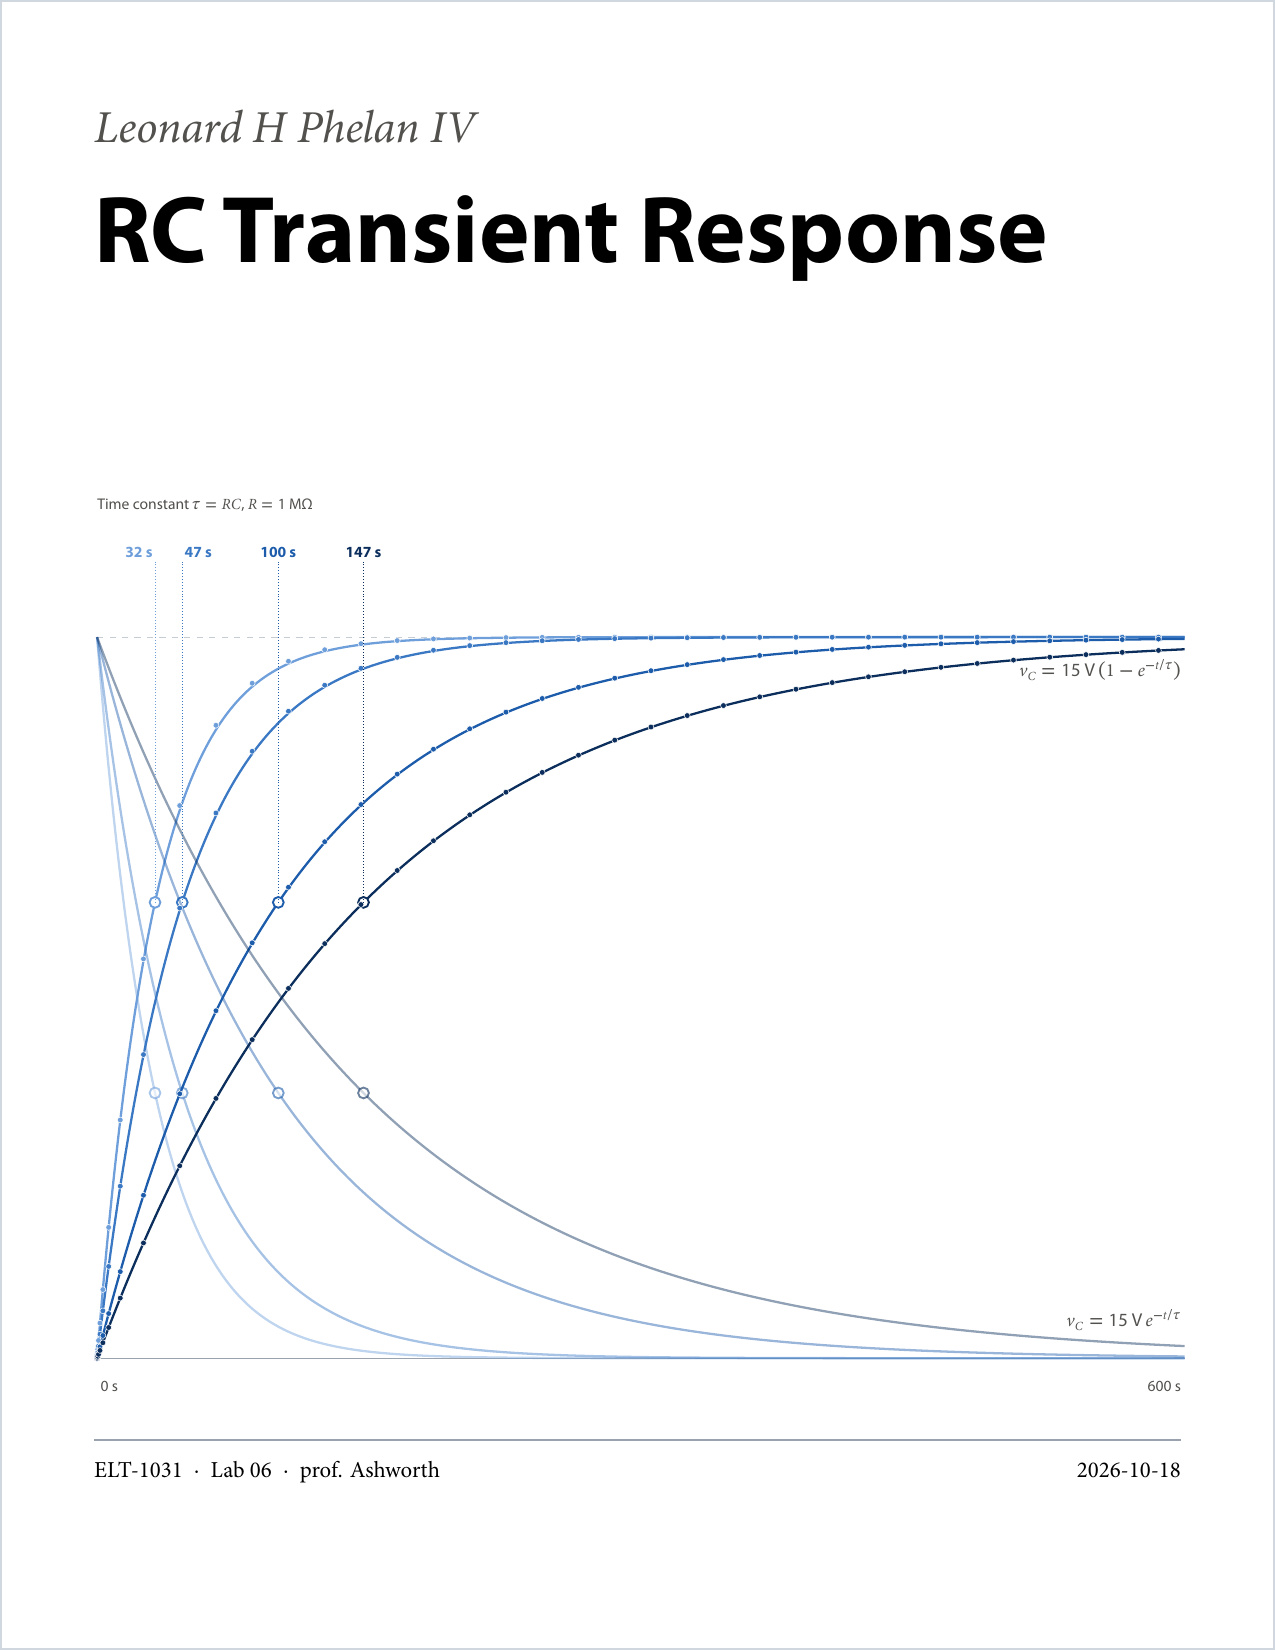
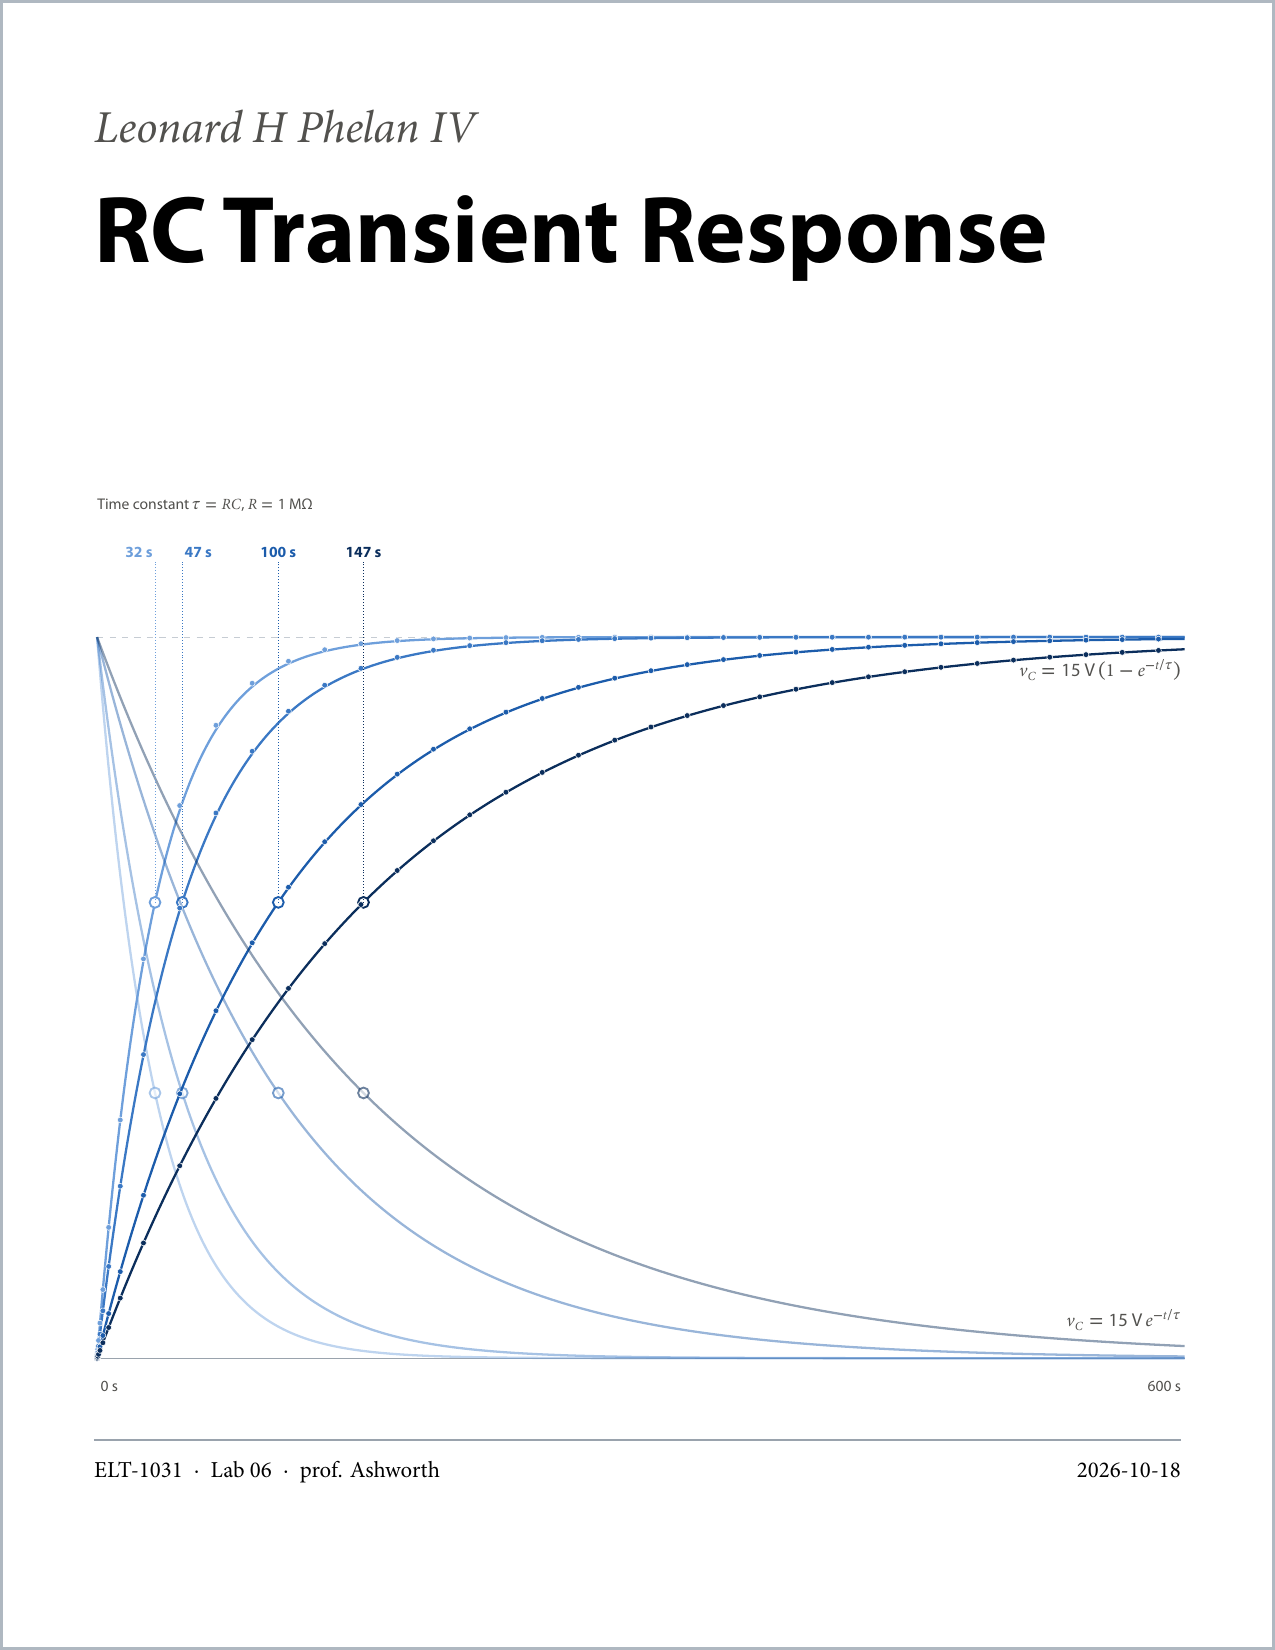
fix border

Changed region(s): [[0.0, 0.0, 1.0, 1.0], [0.0, 0.0, 0.0306, 0.0309]]

diff --git a/showcase/make-screenshots.py b/showcase/make-screenshots.py
@@ -18,8 +18,8 @@ PDF = HERE / "phelan-lab06.pdf"
 OUT = HERE / "pages"
 PAGES = [1, 2, 3, 5]
 DPI = 150
-BORDER = (208, 215, 222)  # GitHub's own border grey, reads in light and dark
-WIDTH = 2                 # px at 150 dpi; about 1 px as GitHub scales it down
+BORDER = (175, 184, 193)  # mid grey; paler greys vanish once GitHub scales the image
+WIDTH = 3                 # px at 150 dpi; about 2 px as GitHub scales it down
 
 OUT.mkdir(exist_ok=True)
 for p in PAGES:
